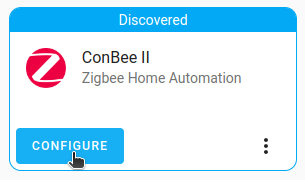
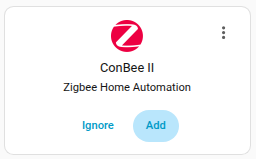
ZBT-1 migrate from deCONZ: update steps to reflect current software

diff --git a/src/connect-zbt-1/getting-started/migrate-deconz-network.md b/src/connect-zbt-1/getting-started/migrate-deconz-network.md
@@ -15,16 +15,30 @@ Follow this guide if you have a deCONZ network running with a ConBee II or RaspB
 This procedure only helps migrate basic network settings to Home Assistant Connect ZBT-1.
 
 - Customizations like device names will be lost and automations will need to be updated.
-- Most powered devices like lightbulbs will be re-discovered over time (you can speed this up by rebooting the device) but your battery-powered devices may need to be re-joined to the network for the migration to complete.
+- Most powered devices like light bulbs will be re-discovered over time (you can speed this up by rebooting the device) but your battery-powered devices may need to be re-joined to the network for the migration to complete.
 - There is currently no migration path to migrate all settings and devices.
 
 {% endcallout %}
 
-## To migrate a deCONZ network to Connect ZBT-1 using ZHA
+This migration includes the following steps:
+
+1. [Prerequisites](#prerequisites).
+2. [Migrating the deCONZ network from the old adapter to ZHA](#to-migrate-a-deconz-network-from-the-old-adapter-to-zha).
+3. [Migrating this ZHA network to Connect ZBT-1](#to-migrate-the-zha-network-to-connectzbt-1).
+4. [Renaming the integration and reconfiguring automations](#renaming-the-integration-and-reconfiguring-automations).
+
+## Prerequisites
+
+- a deCONZ network running with a ConBee II or RaspBee II.
+- Home Assistant version 2025.10.1 or later.
+- DeCONZ version 26720700.
+  - Check the steps below to see how to [check the version or update the deCONZ adapter](#updating-the-deconz-adapter).
+
+### Updating the deCONZ adapter
 
 {% steps %}
-{% step "Viewing the firmware version of the stick" %}
-{% image "/static/img/connect-zbt-1/conbee-update-05.png" "View the firmware version of the stick" %}
+{% step "Viewing the firmware version of the adapter" %}
+{% image "/static/img/connect-zbt-1/conbee-update-05.png" "View the firmware version of the adapter" %}
 {% stepContent %}
 
 - In the deCONZ app, under **Settings** > **Gateway**, check the firmware version. It should be version 26720700 or newer.
@@ -51,6 +65,8 @@ This procedure only helps migrate basic network settings to Home Assistant Conne
 
 {% endstepContent %}
 {% endstep %}
+
+## To migrate a deCONZ network from the old adapter to ZHA
 
 {% step "Stopping the deCONZ add-on" %}
 {% image "/static/img/connect-zbt-1/conbee-migrate-zha-02.png" "Stop the deCONZ add-on" %}
@@ -83,11 +99,11 @@ This procedure only helps migrate basic network settings to Home Assistant Conne
 {% endstepContent %}
 {% endstep %}
 
-{% step "Select Configure" %}
+{% step "Add the Zigbee Home Automation integration" %}
 {% image "/static/img/connect-zbt-1/conbee-migrate-zha-04.png" "Configure the new ZHA integration" %}
 {% stepContent %}
 
-- Once the ZHA integration has detected ConBee II, select **Configure**.
+- Once the ZHA integration has detected ConBee II, select **Add**.
 
 {% endstepContent %}
 {% endstep %}
@@ -96,50 +112,45 @@ This procedure only helps migrate basic network settings to Home Assistant Conne
 {% image "/static/img/connect-zbt-1/conbee-migrate-zha-05.png" "Set up ConBee II as ZHA integration" %}
 {% stepContent %}
 
-- To setting up ConBee II as ZHA integration, select **Submit**.
+- To set up ConBee II as ZHA integration, select **Submit**.
 
 {% endstepContent %}
 {% endstep %}
 
-{% step "Choosing the serial port" %}
-{% image "/static/img/connect-zbt-1/conbee-migrate-zha-24.png" "Choose the serial port" %}
+{% step "Choosing the Zigbee setup" %}
+{% image "/static/img/connect-zbt-1/z2m-migrate-zha-21.png" "Choose the network settings for your radio" %}
 {% stepContent %}
 
-- Choose the serial port and select **Submit**.
+- Select **Advanced setup**.
 
 {% endstepContent %}
 {% endstep %}
 
-{% step "Choosing the network settings for the radio" %}
-{% image "/static/img/connect-zbt-1/conbee-migrate-zha-06.png" "Choose the network settings for the radio" %}
+{% step "Choosing the network settings for your radio" %}
+{% image "/static/img/connect-zbt-1/conbee-migrate-zha-51.png" "Choose the network settings for your radio" %}
 {% stepContent %}
 
-- Select **Keep radio network settings**.
+- Select **Keep adapter network settings**.
+  - This lets Zigbee Home Automation (ZHA) import settings from another device that was used with software other than ZHA.
+  - This way, some of the network settings can be migrated automatically.
+
+- {% stepResult "You can now start migrating the ZHA network as described below." %}
 
 {% endstepContent %}
 {% endstep %}
 
 {% step "Wait" %}
-{% image "/static/img/connect-zbt-1/conbee-migrate-zha-07.png" "Wait" %}
+{% image "/static/img/connect-zbt-1/conbee-migrate-zha-09.png" "Wait" %}
 {% stepContent %}
 
 - Wait for the settings to be loaded.
-
-{% endstepContent %}
-{% endstep %}
-
-{% step "Adding deCONZ to area" %}
-{% image "/static/img/connect-zbt-1/conbee-migrate-zha-09.png" "Add the Zigbee coordinator to your area" %}
-{% stepContent %}
-
-- Once deCONZ has been recognized as your Zigbee coordinator, add it to your area.
-  - Select **Finish**.
+- Once deCONZ has been recognized as your Zigbee coordinator, select **Finish**.
 
 {% endstepContent %}
 {% endstep %}
 
 {% step "Wait" %}
-{% image "/static/img/connect-zbt-1/conbee-migrate-zha-42.png" "Wait for the devices to rejoin the network" %}
+{% image "/static/img/connect-zbt-1/z2m-backup-restore-05.png" "Wait for the devices to rejoin the network" %}
 {% stepContent %}
 
 - Wait for the devices to rejoin the network
@@ -151,169 +162,18 @@ This procedure only helps migrate basic network settings to Home Assistant Conne
 {% endstepContent %}
 {% endstep %}
 
-{% step "Configuring settings" %}
-{% image "/static/img/connect-zbt-1/conbee-migrate-zha-41.png" "Open the network settings" %}
-{% stepContent %}
+## To migrate the ZHA network to Connect&nbsp;ZBT-1
 
-- To open the network settings, under **Integration entries**, select **Configure**.
+{% include 'connect-zbt-1/migrate-zha-only.md' %}
 
-{% endstepContent %}
-{% endstep %}
-
-{% step "" %}
-{% image "/static/img/connect-zbt-1/conbee-migrate-zha-11.png" "Migrate the network settings" %}
-{% stepContent %}
-
-- Under **Network Settings**, select **Migrate radio**.
-
-{% endstepContent %}
-{% endstep %}
-
-{% step "Reconfigure ZHA" %}
-{% image "/static/img/connect-zbt-1/conbee-migrate-zha-12.png" "Reconfigure ZHA" %}
-{% stepContent %}
-
-- **Reconfigure ZHA**:  Select **Submit**.
-
-{% endstepContent %}
-{% endstep %}
-
-{% step "Migrating to a new radio" %}
-{% image "/static/img/connect-zbt-1/conbee-migrate-zha-13.png" "Migrate to a new radio" %}
-{% stepContent %}
-
-- Select **Migrate to a new radio**.
-
-{% endstepContent %}
-{% endstep %}
-
-{% step "Starting the automatic backup" %}
-{% image "/static/img/connect-zbt-1/conbee-migrate-zha-14.png" "Start the automatic backup" %}
-{% stepContent %}
-
-- Start the automatic backup.
-  1. Make sure the ConBee firmware is running firmware version 26720700.
-  2. When it is up-to-date, select **Submit**.
-
-{% endstepContent %}
-{% endstep %}
-
-{% step " Unplugging your old radio" %}
-{% image "/static/img/connect-zbt-1/z2m-migrate-zha-06.png" "Unplug your old radio" %}
-{% stepContent %}
-
-1. If you no longer need the old radio stick, you can now remove it.
-2. Before selecting **Submit**, connect Connect ZBT-1, as described in the following step.
-
-{% endstepContent %}
-{% endstep %}
-
-{% step "Adding the extension cable" %}
-{% image "/static/img/connect-zbt-1/connect-zbt-1-raspi-01.jpg" "Plug the extension cable into Connect ZBT-1" %}
-{% stepContent %}
-
-{% include "fragments/notice-interference.md" %}
-
-- Plug the Home Assistant Connect ZBT-1 into the USB extension cable
-  - Plug the extension cable into your Home Assistant instance.
-  - If you are using the standalone Home Assistant Container installation method, make sure Connect ZBT-1 is [mapped to the container](https://www.home-assistant.io/installation/linux#exposing-devices).
-
-{% endstepContent %}
-{% endstep %}
-
-{% step "Submit" %}
-{% image "/static/img/connect-zbt-1/z2m-migrate-zha-06.png" "Confirm that Connect ZBT-1 is plugged in" %}
-{% stepContent %}
-
-- Now that Connect ZBT-1 is plugged in, select **Submit**.
-
-{% endstepContent %}
-{% endstep %}
-
-{% step "" %}
-{% image "/static/img/connect-zbt-1/conbee-migrate-zha-15.png" "Select the serial port" %}
-{% stepContent %}
-
-- Select the serial port for Connect ZBT-1, then select **Submit**.
-
-{% endstepContent %}
-{% endstep %}
-
-{% step "Restore automatic backup" %}
-{% image "/static/img/connect-zbt-1/z2m-migrate-zha-08.png" "Start the backup restore process" %}
-{% stepContent %}
-
-- Select **Restore an automatic backup**.
-
-{% endstepContent %}
-{% endstep %}
-
-{% step "Choosing the backup" %}
-{% image "/static/img/connect-zbt-1/z2m-migrate-zha-09.png" "Select the backup" %}
-{% stepContent %}
-
-- Choose the latest backup and select **Submit**.
-
-{% endstepContent %}
-{% endstep %}
-
-{% step "Overwriting radio IEEE address" %}
-{% image "/static/img/connect-zbt-1/z2m-migrate-zha-10.png" "Overwrite radio IEEE address" %}
-{% stepContent %}
-
-- Overwrite radio IEEE address.
-  - Select the **Permanently replace the radio IEEE address** and select **Submit**.
-  - **Info**: This means that your old stick and your new stick will have the same IEEE address.
-    - This is required for the migration process to complete successfully.
-    - From this point onwards, you should not operate the old stick in the same area.
-    - If you do not migrate the IEEE address from your old stick, you'll have to repair many of your devices in order to keep them working.
-
-{% endstepContent %}
-{% endstep %}
-
-{% step "Wait" %}
-{% image "/static/img/connect-zbt-1/z2m-migrate-zha-11.png" "Wait" %}
-{% stepContent %}
-
-- **Wait**
-- Overwriting the IEEE address may take a while. Wait.
-
-{% endstepContent %}
-{% endstep %}
-
-{% step "Checking the Connect ZBT-1 ZHA integration" %}
-{% image "/static/img/connect-zbt-1/conbee-migrate-zha-new-18.png" "Check the Connect ZBT-1 ZHA integration" %}
-{% stepContent %}
-
-- Connect ZBT-1 is now set up in the ZHA integration.
-- To check whether the migration was successful, select the integration.
-
-{% endstepContent %}
-{% endstep %}
-
-{% step "Checking the radio type" %}
-{% image "/static/img/connect-zbt-1/conbee-migrate-zha-19.png" "Check the radio type" %}
-{% stepContent %}
-
-- Under **Network Settings**, check the **Radio type**. It should say **ezsp**.
-
-{% endstepContent %}
-{% endstep %}
+## Renaming the integration and reconfiguring automations
 
 {% step "Renaming the ZHA integration" %}
 {% image "/static/img/connect-zbt-1/conbee-migrate-zha-new-21.png" "Start renaming ZHA integration" %}
 {% stepContent %}
 
 - To avoid confusion, rename the ZHA integration.
-
-{% endstepContent %}
-{% endstep %}
-
-{% step "Changing the ZHA integration name" %}
-{% image "/static/img/connect-zbt-1/conbee-migrate-zha-21.png" "Change the name to Connect ZBT-1" %}
-{% stepContent %}
-
-- Change the ZHA integration name to **Connect ZBT-1** and select **OK**.
+- Change the ZHA integration name to **Connect ZBT-1**.
 
 {% endstepContent %}
 {% endstep %}
